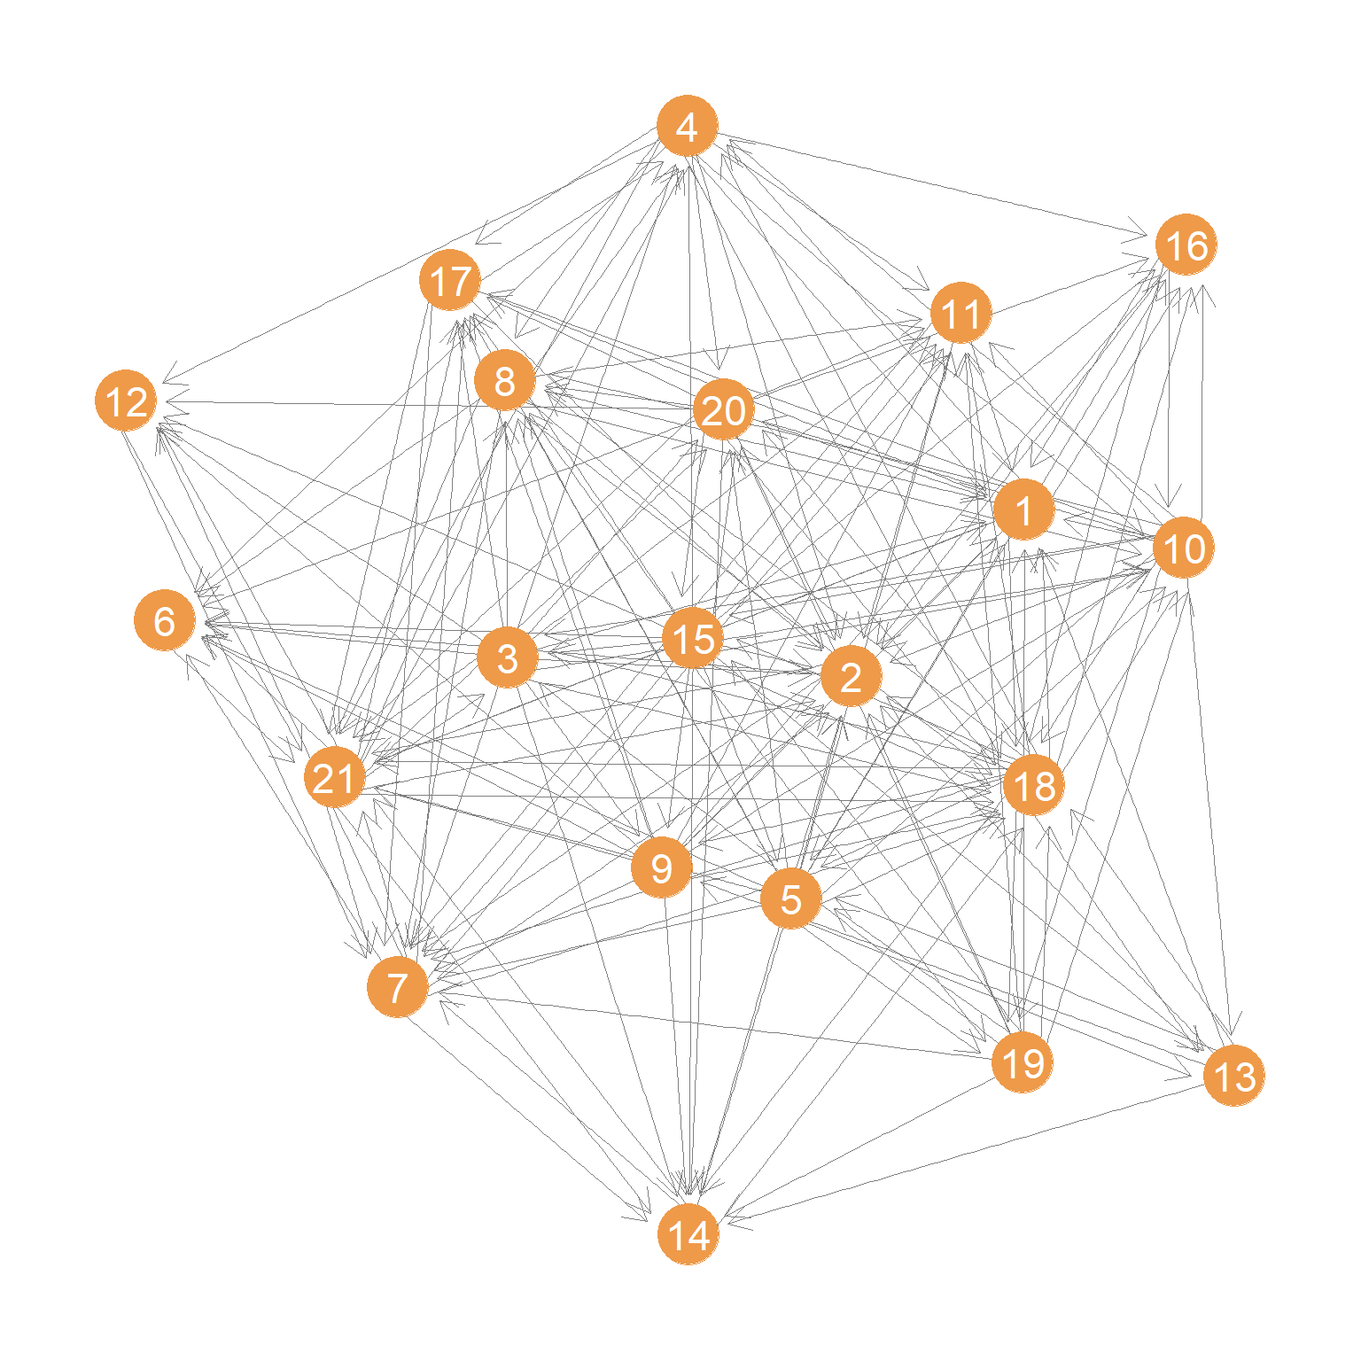
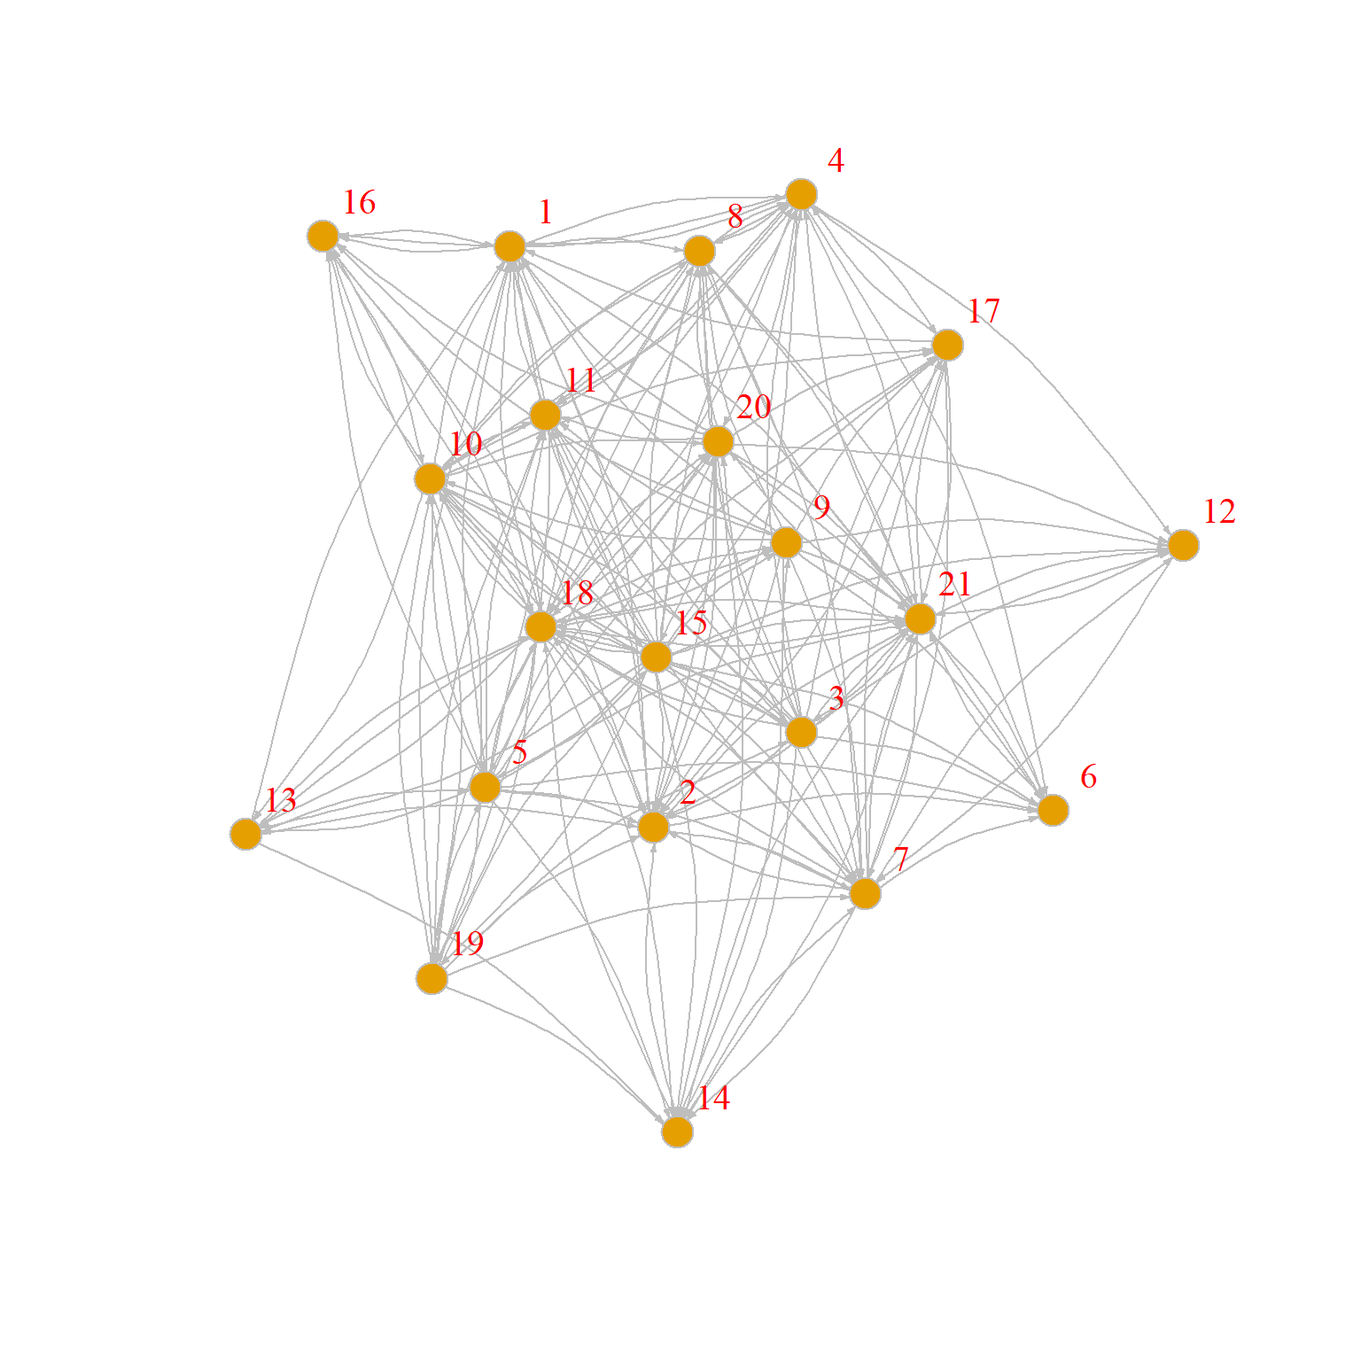
now we are talking

diff --git a/docs/prest-pagerank.html b/docs/prest-pagerank.html
@@ -1026,10 +1026,10 @@ window.Quarto = {
 <div class="code-copy-outer-scaffold"><div class="sourceCode cell-code" id="cb23"><pre class="sourceCode numberSource r number-lines code-with-copy"><code class="sourceCode r"><span id="cb23-1"><a href="#cb23-1"></a><span class="fu">markov.chain1</span>(P)</span></code></pre></div><button title="Copy to Clipboard" class="code-copy-button"><i class="bi"></i></button></div>
 </details>
 <div class="cell-output cell-output-stdout">
-<pre><code>  [1] 19 11 13 11  4  1 16  2  4 11  9  5  2 18  2  4 17  4 11  8 11  3 19  2  6
- [26] 21 12 17  9  6 12 10  9 17  7  6  9 11 13 11  3 15 19 12 17 11  5 13  5 13
- [51]  5 10  3 19 11 17 20 17 12 17  7 17 14  5 17 20 10 16 17  3 11 15  3 11 17
- [76]  6  7 17  1 16 10 16  2  6  9 15 17 16  4  8 11 15 17 16 17 20 17 16  4 12</code></pre>
+<pre><code>  [1] 15  3 11  2  5 17  7 17 16  1  8  1 11 12 17  8 10 12 11  5 10  8 10 16  4
+ [26] 17 16  2 16 17 10  9 11 15 17  1 12 11 20 19 11 18 21  5 17  3 15  1 16 10
+ [51] 16  2 18  2  6  2 19  5 17  4  1 17  4  1 16 17 20 19  3 19  1  4 17 12 10
+ [76] 16  2 19 15  1  8  4 12 10 16  1  4  8  4 16  2 21 12  1 17 11 17  8 10 17</code></pre>
 </div>
 </div>
 <p>We can of course create a longer one by changing the <code>q</code> argument while setting the seed node to 5:</p>
@@ -1039,26 +1039,26 @@ window.Quarto = {
 <div class="code-copy-outer-scaffold"><div class="sourceCode cell-code" id="cb25"><pre class="sourceCode numberSource r number-lines code-with-copy"><code class="sourceCode r"><span id="cb25-1"><a href="#cb25-1"></a><span class="fu">markov.chain1</span>(P, <span class="at">q =</span> <span class="dv">500</span>, <span class="at">seed =</span> <span class="dv">5</span>)</span></code></pre></div><button title="Copy to Clipboard" class="code-copy-button"><i class="bi"></i></button></div>
 </details>
 <div class="cell-output cell-output-stdout">
-<pre><code>  [1] 17  1 15 14  5 17 10 12  1  8  4 11 15  5 14  7 17 11  5 13 11 19  1 16  1
- [26] 15  3 10 20 18 20 17 20 10 20 19  1 15  1 11  2  6 17 20 18 21  5  2  4  2
- [51] 18 21  6  2 16 17  5 10 17  3 10 20 17  6  7 17  8 17  4 12  4 17 12 19 11
- [76] 13 11  2 11  8 10  3 11  3 19 17 19 17 10  5 14  3 17 20 19 11  2  5 11  2
-[101]  4  2 11  8 10  9  6  9 10 12  6 15  3 14 17 16  1 16  4 16  4 11  8 10  5
-[126] 13  5 17 11 20 17 20 18  2 16  1  8 10 12 11  3 10  9  6  9 17 19  3 15 14
-[151] 17 20 11 19 14  3 11  3 17  2 11 13 11  9 11 15  1  8  1  2 19  3 19  5  2
-[176] 18 21 17  8 11  3 14  5 19  5 10  8  4 11 18  2 17 12  6 21 18  2  1 17 15
-[201]  9  5 21 12 11  2  4  2  4 16 10 16 17  6  2  4 11  8 11  1 16 10  3 11 20
-[226] 10  9 17  6 12  6  7  6 17 14 19  3 10  3 10 20 11 13 11 19  1 17 10 16 17
-[251]  6 17 16 10  8  1 16 17  2 19 15 11  8 17 11  9 10  5 11  2 17  9 11  4  1
-[276] 16  4 17 19 12  4 11 15 19 20 18  2 21 18 21 18 11 15  5 13 11  8 17  6 21
-[301]  6 21  2 18 20 18  2  1 19 15 19  1 19 14  7 14  3 14 17 12 11  9 15 19 17
-[326]  1 15  1  8 10 12 19 15 14  3 14  5 19 12 19 17  5 17 19 20 17 16  1 15 14
-[351]  7 17  5 17  7  6 15  6  9  5  2  5  9 10  9 11  9 11  5 19 17  3 10  8  4
-[376]  2 16  4  8 10  9  6  7 14 19  1 19 12 17 20 10 17  7 14 19  2  1  4 11  3
-[401] 19  3 17  8 10  9  6 17  7  6 17 14 19 11  5 14 19  5 10 17 21  6  2 16  4
-[426] 17 12  6 15  5 11  9 10  9 17  4  1  8  4  2  6 17  3 14  7  6 17 10 12  1
-[451]  4  2 11  1 17 15 17  9  6  7 14  3 19 11 18 21  6  9 17  3 17  1  8  4 12
-[476] 11 18 21 17  1 15 19  5 19 14 15 14 15 14  3 14 17  7  6  2 18 11 19 11  8</code></pre>
+<pre><code>  [1] 14 17 10 17  2 21  5  2  5  2  4 12 11 19 15  3 10 17  6 15  1 16 17  6  2
+ [26] 17 15  5 13 11 19  3 15 11  3 14 15 14 15  1 16 17  1 19  2 16  2 16 17  8
+ [51]  4 16  2 16 10  9 15  1 17  1  2 16  2 18  2  4 16  4  2  6 21  5 17 21  2
+ [76] 21  6  2 18 21  5 21  5 15  1 16  1  8 11 20 19 17  4  8 11 17  9 11  5  2
+[101] 11 12 11 13  5  2 11  4 11 12  4  2 18 21  2  4 11  4 11  2  5 15 19 12  1
+[126] 17 19  5  2  1 15  5 17 16  1  8 10  3 14  5 19 11  8 17  8 17 11 18 21 18
+[151] 20 18  2 19  3 19  5 10 20 19  2  5 10 17  5  9 11  8  1 12  4 17 15  9 10
+[176] 17 15 19 15  9 15 14 19  2 17  2 19 12  1 12  1 17  7 17  8  4 16 10 20 19
+[201] 17 20 19 15 11  4 17 20 18 21  5 10 16  2 19  3 19 20 17 19 20 19  1 11 20
+[226] 10  9  6  2  1 11 13  5  2 21 12 21 17  4  1 15 14  3 11  4 11 20 17  7  6
+[251] 21 12 17 20 18 20 18 11  5  2 16 17  3 10  3 10 12  4 17 12  6  9 17  1 15
+[276] 17  1  4  1 15  5  2 11  9 10  3 17  2 16  2  6  7  6  2  1  8 17  1  2 11
+[301] 12 10  9 15  3 15 17  6  9  6  9 15  9 17 11  9  6 15  6 21  5 15 19 17 15
+[326] 19  1 15 14 17  2 21 18 20 19 20 19  3 17 21  5 14  3 17  2 18 20 19 15  6
+[351] 17  2  6 17 19  5 10 16  4 11  2 21 12 11 19 12 11  8  1  2 18  2 17 19 11
+[376] 13 11 15  5 21 17  6  7 14 19  3 19 20 18  2  6 21 17 14  3 10 12 21  5 14
+[401] 19 20 17  5 10 16  4 11 20 17 15  3 19 11  3 17  9 10  9 17  8  1 19 14  7
+[426] 14  3 15 19  3 15 17  6  2 11  5  9 10  3 19  2 18 21 18 20 10  9 10 12  6
+[451] 12  4 11  8 11  9  5 11 15 17  6  2  4 16  2 18 20 11 20 19 20 11 19  3 17
+[476]  8 17 14 19  2 18  2 19 17 19 17  1 16  2 16  1  8 17  3 19 12  1 16  4  1</code></pre>
 </div>
 </div>
 <p>Note that one thing that happens here is that the rumor goes through some nodes more often than others. Another thing that you may be thinking is that the odds that a node will keep repeating itself in this chain has to do with how many neighbors they have since that increases the chances that they will be chosen in the <code>sample</code> line of the function. If you think that, you will be right!</p>
@@ -1077,7 +1077,7 @@ window.Quarto = {
 <pre><code>   1    2    3    4    5    6    7    8    9   10   11   12   13   14   15   16 
 0.06 0.06 0.04 0.04 0.06 0.04 0.02 0.03 0.04 0.05 0.09 0.05 0.01 0.04 0.06 0.03 
   17   18   19   20   21 
-0.11 0.03 0.06 0.03 0.04 </code></pre>
+0.12 0.02 0.06 0.03 0.04 </code></pre>
 </div>
 </div>
 <p>Line 1 computes the states of the markov chain after 50000 iterations using our <code>markov.chain1</code> function. Then line 2 uses the native <code>R</code> function <code>table</code> as a handy trick to compute how many times each node shows up in the chain stored in the <code>count</code> object:</p>
@@ -1089,9 +1089,9 @@ window.Quarto = {
 <div class="cell-output cell-output-stdout">
 <pre><code>states
    1    2    3    4    5    6    7    8    9   10   11   12   13   14   15   16 
-2878 3159 1846 2244 3025 2199  992 1610 1901 2652 4448 2527  596 1864 2845 1635 
+2840 3137 1948 2233 3193 2166  946 1679 1899 2586 4383 2579  606 1945 2862 1583 
   17   18   19   20   21 
-5735 1257 3161 1655 1771 </code></pre>
+5765 1190 3070 1518 1872 </code></pre>
 </div>
 </div>
 <p>Finally, line 4 divides these numbers by the length of the chain to get the probability.</p>
@@ -1132,11 +1132,11 @@ window.Quarto = {
 </details>
 <div class="cell-output cell-output-stdout">
 <pre><code>      1       2       3       4       5       6       7       8       9      10 
-0.05756 0.06318 0.03692 0.04488 0.06050 0.04398 0.01984 0.03220 0.03802 0.05304 
+0.05680 0.06274 0.03896 0.04466 0.06386 0.04332 0.01892 0.03358 0.03798 0.05172 
      11      12      13      14      15      16      17      18      19      20 
-0.08896 0.05054 0.01192 0.03728 0.05690 0.03270 0.11470 0.02514 0.06322 0.03310 
+0.08766 0.05158 0.01212 0.03890 0.05724 0.03166 0.11530 0.02380 0.06140 0.03036 
      21 
-0.03542 </code></pre>
+0.03744 </code></pre>
 </div>
 </div>
 <p>There is another way to compute these probabilities more directly from the <span class="math inline">\(\mathbf{P}\)</span> matrix. The basic idea is that at any time <span class="math inline">\(t\)</span>, the distribution of probabilities across nodes in the network stored in the vector <span class="math inline">\(\mathbf{x}\)</span> is given by:</p>
@@ -2043,63 +2043,57 @@ Brin, Sergey, and Lawrence Page. 1998. <span>“The Anatomy of a Large-Scale Hyp
 <span id="cb48-341"><a href="#cb48-341"></a><span class="co">#| fig-width: 8</span></span>
 <span id="cb48-342"><a href="#cb48-342"></a><span class="co">#| fig-height: 8</span></span>
 <span id="cb48-343"><a href="#cb48-343"></a><span class="co">#| echo: false</span></span>
-<span id="cb48-344"><a href="#cb48-344"></a><span class="fu">library</span>(ggraph)</span>
-<span id="cb48-345"><a href="#cb48-345"></a><span class="fu">set.seed</span>(<span class="dv">456</span>)</span>
-<span id="cb48-346"><a href="#cb48-346"></a>p <span class="ot">&lt;-</span> <span class="fu">ggraph</span>(ht_advice, <span class="at">layout =</span> <span class="st">"auto"</span>)</span>
-<span id="cb48-347"><a href="#cb48-347"></a>p <span class="ot">&lt;-</span> p <span class="sc">+</span> <span class="fu">geom_edge_parallel</span>(</span>
-<span id="cb48-348"><a href="#cb48-348"></a>  <span class="at">color =</span> <span class="fu">gray</span>(<span class="fl">0.5</span>), <span class="at">edge_width =</span> <span class="fl">0.25</span>,</span>
-<span id="cb48-349"><a href="#cb48-349"></a>  <span class="at">arrow =</span> <span class="fu">arrow</span>(<span class="at">length =</span> <span class="fu">unit</span>(<span class="dv">4</span>, <span class="st">"mm"</span>)),</span>
-<span id="cb48-350"><a href="#cb48-350"></a>  <span class="at">end_cap =</span> <span class="fu">circle</span>(<span class="dv">6</span>, <span class="st">"mm"</span>),</span>
-<span id="cb48-351"><a href="#cb48-351"></a>  <span class="at">sep =</span> <span class="fu">unit</span>(<span class="dv">5</span>, <span class="st">"mm"</span>)</span>
-<span id="cb48-352"><a href="#cb48-352"></a>)</span>
-<span id="cb48-353"><a href="#cb48-353"></a>p <span class="ot">&lt;-</span> p <span class="sc">+</span> <span class="fu">geom_node_point</span>(<span class="fu">aes</span>(<span class="at">x =</span> x, <span class="at">y =</span> y), <span class="at">size =</span> <span class="dv">12</span>, <span class="at">color =</span> <span class="st">"tan2"</span>)</span>
-<span id="cb48-354"><a href="#cb48-354"></a>p <span class="ot">&lt;-</span> p <span class="sc">+</span> <span class="fu">geom_node_text</span>(<span class="fu">aes</span>(<span class="at">label =</span> <span class="dv">1</span><span class="sc">:</span><span class="fu">vcount</span>(g)), <span class="at">size =</span> <span class="dv">6</span>, <span class="at">color =</span> <span class="st">"white"</span>)</span>
-<span id="cb48-355"><a href="#cb48-355"></a>p <span class="ot">&lt;-</span> p <span class="sc">+</span> <span class="fu">theme_graph</span>()</span>
-<span id="cb48-356"><a href="#cb48-356"></a>p</span>
-<span id="cb48-357"><a href="#cb48-357"></a><span class="in">```</span></span>
-<span id="cb48-358"><a href="#cb48-358"></a></span>
-<span id="cb48-359"><a href="#cb48-359"></a>We then compute the $\mathbf{P}$ matrix corresponding to this network:</span>
-<span id="cb48-360"><a href="#cb48-360"></a></span>
-<span id="cb48-363"><a href="#cb48-363"></a><span class="in">```{r}</span></span>
-<span id="cb48-364"><a href="#cb48-364"></a>D.o <span class="ot">&lt;-</span> <span class="fu">diag</span>(<span class="dv">1</span> <span class="sc">/</span> <span class="fu">rowSums</span>(A))</span>
-<span id="cb48-365"><a href="#cb48-365"></a>P <span class="ot">&lt;-</span> D.o <span class="sc">%*%</span> A</span>
-<span id="cb48-366"><a href="#cb48-366"></a><span class="in">```</span></span>
+<span id="cb48-344"><a href="#cb48-344"></a><span class="fu">set.seed</span>(<span class="dv">123</span>)</span>
+<span id="cb48-345"><a href="#cb48-345"></a><span class="fu">plot</span>(ht_advice,</span>
+<span id="cb48-346"><a href="#cb48-346"></a>  <span class="at">vertex.size =</span> <span class="dv">7</span>, <span class="at">vertex.frame.color =</span> <span class="st">"gray"</span>, <span class="at">edge.color =</span> <span class="st">"gray"</span>,</span>
+<span id="cb48-347"><a href="#cb48-347"></a>  <span class="at">vertex.label.cex =</span> <span class="fl">1.25</span>, <span class="at">edge.arrow.size =</span> <span class="fl">0.25</span>,</span>
+<span id="cb48-348"><a href="#cb48-348"></a>  <span class="at">vertex.label.color =</span> <span class="st">"red"</span>,</span>
+<span id="cb48-349"><a href="#cb48-349"></a>  <span class="at">vertex.label.dist =</span> <span class="fl">1.5</span>, <span class="at">edge.curved =</span> <span class="fl">0.2</span></span>
+<span id="cb48-350"><a href="#cb48-350"></a>)</span>
+<span id="cb48-351"><a href="#cb48-351"></a><span class="in">```</span></span>
+<span id="cb48-352"><a href="#cb48-352"></a></span>
+<span id="cb48-353"><a href="#cb48-353"></a>We then compute the $\mathbf{P}$ matrix corresponding to this network:</span>
+<span id="cb48-354"><a href="#cb48-354"></a></span>
+<span id="cb48-357"><a href="#cb48-357"></a><span class="in">```{r}</span></span>
+<span id="cb48-358"><a href="#cb48-358"></a>D.o <span class="ot">&lt;-</span> <span class="fu">diag</span>(<span class="dv">1</span> <span class="sc">/</span> <span class="fu">rowSums</span>(A))</span>
+<span id="cb48-359"><a href="#cb48-359"></a>P <span class="ot">&lt;-</span> D.o <span class="sc">%*%</span> A</span>
+<span id="cb48-360"><a href="#cb48-360"></a><span class="in">```</span></span>
+<span id="cb48-361"><a href="#cb48-361"></a></span>
+<span id="cb48-362"><a href="#cb48-362"></a>One issue that arises in computing the $\mathbf{P}$ for directed graphs is that there could be nodes with no out-neighbors (so-called sink nodes) or like node 6 in , who has just one out-neighbor (e.g., seeks advice from just one person), in which case the probability is 1.0 that if the random walker is at node 6 it will go to node 21. </span>
+<span id="cb48-363"><a href="#cb48-363"></a></span>
+<span id="cb48-364"><a href="#cb48-364"></a>To avoid this issue the original designers of the PageRank algorithm <span class="co">[</span><span class="ot">@brin_page98</span><span class="co">]</span> added a "fudge" factor: That is, with probability $\alpha$ the random walker should hop from node to node following the directed links in the graph. But once in a while with probability $1-\alpha$ the walker should decide to "teleport" (with uniform probability) to *any* node in the graph whether it is an out-neighbor of the current node or not.</span>
+<span id="cb48-365"><a href="#cb48-365"></a></span>
+<span id="cb48-366"><a href="#cb48-366"></a>How do we do that? Well we need to "fix" the $\mathbf{P}$ matrix to allow for such behavior. So instead of $\mathbf{P}$ we estimate our distributive status model on the matrix $\mathbf{G}$ (yes, for **G**oogle):</span>
 <span id="cb48-367"><a href="#cb48-367"></a></span>
-<span id="cb48-368"><a href="#cb48-368"></a>One issue that arises in computing the $\mathbf{P}$ for directed graphs is that there could be nodes with no out-neighbors (so-called sink nodes) or like node 6 in , who has just one out-neighbor (e.g., seeks advice from just one person), in which case the probability is 1.0 that if the random walker is at node 6 it will go to node 21. </span>
-<span id="cb48-369"><a href="#cb48-369"></a></span>
-<span id="cb48-370"><a href="#cb48-370"></a>To avoid this issue the original designers of the PageRank algorithm <span class="co">[</span><span class="ot">@brin_page98</span><span class="co">]</span> added a "fudge" factor: That is, with probability $\alpha$ the random walker should hop from node to node following the directed links in the graph. But once in a while with probability $1-\alpha$ the walker should decide to "teleport" (with uniform probability) to *any* node in the graph whether it is an out-neighbor of the current node or not.</span>
+<span id="cb48-368"><a href="#cb48-368"></a>$$</span>
+<span id="cb48-369"><a href="#cb48-369"></a> \mathbf{G} = \alpha \mathbf{P} + (1 - \alpha) \mathbf{E}</span>
+<span id="cb48-370"><a href="#cb48-370"></a>$$</span>
 <span id="cb48-371"><a href="#cb48-371"></a></span>
-<span id="cb48-372"><a href="#cb48-372"></a>How do we do that? Well we need to "fix" the $\mathbf{P}$ matrix to allow for such behavior. So instead of $\mathbf{P}$ we estimate our distributive status model on the matrix $\mathbf{G}$ (yes, for **G**oogle):</span>
+<span id="cb48-372"><a href="#cb48-372"></a>Where $\mathbf{E}$ is a matrix of the same dimensions as $\mathbf{P}$ but containing $1/n$ in every cell indicating that every node has an equal chance of being "teleported" to.</span>
 <span id="cb48-373"><a href="#cb48-373"></a></span>
-<span id="cb48-374"><a href="#cb48-374"></a>$$</span>
-<span id="cb48-375"><a href="#cb48-375"></a> \mathbf{G} = \alpha \mathbf{P} + (1 - \alpha) \mathbf{E}</span>
-<span id="cb48-376"><a href="#cb48-376"></a>$$</span>
-<span id="cb48-377"><a href="#cb48-377"></a></span>
-<span id="cb48-378"><a href="#cb48-378"></a>Where $\mathbf{E}$ is a matrix of the same dimensions as $\mathbf{P}$ but containing $1/n$ in every cell indicating that every node has an equal chance of being "teleported" to.</span>
-<span id="cb48-379"><a href="#cb48-379"></a></span>
-<span id="cb48-380"><a href="#cb48-380"></a>So, fixing $\alpha = 0.85$ (the standard value chosen by @brin_page98 in their original paper) our $\mathbf{G}$ matrix would be:</span>
-<span id="cb48-381"><a href="#cb48-381"></a></span>
-<span id="cb48-384"><a href="#cb48-384"></a><span class="in">```{r}</span></span>
-<span id="cb48-385"><a href="#cb48-385"></a>n <span class="ot">&lt;-</span> <span class="fu">vcount</span>(g)</span>
-<span id="cb48-386"><a href="#cb48-386"></a>E <span class="ot">&lt;-</span> <span class="fu">matrix</span>(<span class="dv">1</span> <span class="sc">/</span> n, n, n)</span>
-<span id="cb48-387"><a href="#cb48-387"></a>G <span class="ot">&lt;-</span> (<span class="fl">0.85</span> <span class="sc">*</span> P) <span class="sc">+</span> (<span class="fl">0.15</span> <span class="sc">*</span> E)</span>
-<span id="cb48-388"><a href="#cb48-388"></a><span class="in">```</span></span>
-<span id="cb48-389"><a href="#cb48-389"></a></span>
-<span id="cb48-390"><a href="#cb48-390"></a>And then we just play our status distribution game on the transpose of $\mathbf{G}$:</span>
-<span id="cb48-391"><a href="#cb48-391"></a></span>
-<span id="cb48-394"><a href="#cb48-394"></a><span class="in">```{r}</span></span>
-<span id="cb48-395"><a href="#cb48-395"></a>s3 <span class="ot">&lt;-</span> <span class="fu">round</span>(<span class="fu">status1</span>(<span class="fu">t</span>(G)), <span class="dv">3</span>)</span>
-<span id="cb48-396"><a href="#cb48-396"></a><span class="fu">round</span>(s3 <span class="sc">/</span> <span class="fu">max</span>(s3), <span class="dv">3</span>)</span>
-<span id="cb48-397"><a href="#cb48-397"></a><span class="in">```</span></span>
-<span id="cb48-398"><a href="#cb48-398"></a></span>
-<span id="cb48-399"><a href="#cb48-399"></a>Which is the same answer you would get from the <span class="in">`igraph`</span> function <span class="in">`page_rank`</span> by setting the "damping" parameter to 0.85:</span>
-<span id="cb48-400"><a href="#cb48-400"></a></span>
-<span id="cb48-403"><a href="#cb48-403"></a><span class="in">```{r}</span></span>
-<span id="cb48-404"><a href="#cb48-404"></a>pr <span class="ot">&lt;-</span> <span class="fu">page_rank</span>(g, <span class="at">damping =</span> <span class="fl">0.85</span>, <span class="at">algo =</span> <span class="st">"arpack"</span>)<span class="sc">$</span>vector</span>
-<span id="cb48-405"><a href="#cb48-405"></a><span class="fu">round</span>(pr <span class="sc">/</span> <span class="fu">max</span>(pr), <span class="dv">3</span>)</span>
-<span id="cb48-406"><a href="#cb48-406"></a><span class="in">```</span></span>
-<span id="cb48-407"><a href="#cb48-407"></a></span>
-<span id="cb48-408"><a href="#cb48-408"></a>We can see therefore that the damping parameter simply controls the extent to which the PageRank ranking is driven by the directed connectivity of the $\mathbf{P}$ matrix, versus a stochastic or random component. </span>
+<span id="cb48-374"><a href="#cb48-374"></a>So, fixing $\alpha = 0.85$ (the standard value chosen by @brin_page98 in their original paper) our $\mathbf{G}$ matrix would be:</span>
+<span id="cb48-375"><a href="#cb48-375"></a></span>
+<span id="cb48-378"><a href="#cb48-378"></a><span class="in">```{r}</span></span>
+<span id="cb48-379"><a href="#cb48-379"></a>n <span class="ot">&lt;-</span> <span class="fu">vcount</span>(g)</span>
+<span id="cb48-380"><a href="#cb48-380"></a>E <span class="ot">&lt;-</span> <span class="fu">matrix</span>(<span class="dv">1</span> <span class="sc">/</span> n, n, n)</span>
+<span id="cb48-381"><a href="#cb48-381"></a>G <span class="ot">&lt;-</span> (<span class="fl">0.85</span> <span class="sc">*</span> P) <span class="sc">+</span> (<span class="fl">0.15</span> <span class="sc">*</span> E)</span>
+<span id="cb48-382"><a href="#cb48-382"></a><span class="in">```</span></span>
+<span id="cb48-383"><a href="#cb48-383"></a></span>
+<span id="cb48-384"><a href="#cb48-384"></a>And then we just play our status distribution game on the transpose of $\mathbf{G}$:</span>
+<span id="cb48-385"><a href="#cb48-385"></a></span>
+<span id="cb48-388"><a href="#cb48-388"></a><span class="in">```{r}</span></span>
+<span id="cb48-389"><a href="#cb48-389"></a>s3 <span class="ot">&lt;-</span> <span class="fu">round</span>(<span class="fu">status1</span>(<span class="fu">t</span>(G)), <span class="dv">3</span>)</span>
+<span id="cb48-390"><a href="#cb48-390"></a><span class="fu">round</span>(s3 <span class="sc">/</span> <span class="fu">max</span>(s3), <span class="dv">3</span>)</span>
+<span id="cb48-391"><a href="#cb48-391"></a><span class="in">```</span></span>
+<span id="cb48-392"><a href="#cb48-392"></a></span>
+<span id="cb48-393"><a href="#cb48-393"></a>Which is the same answer you would get from the <span class="in">`igraph`</span> function <span class="in">`page_rank`</span> by setting the "damping" parameter to 0.85:</span>
+<span id="cb48-394"><a href="#cb48-394"></a></span>
+<span id="cb48-397"><a href="#cb48-397"></a><span class="in">```{r}</span></span>
+<span id="cb48-398"><a href="#cb48-398"></a>pr <span class="ot">&lt;-</span> <span class="fu">page_rank</span>(g, <span class="at">damping =</span> <span class="fl">0.85</span>, <span class="at">algo =</span> <span class="st">"arpack"</span>)<span class="sc">$</span>vector</span>
+<span id="cb48-399"><a href="#cb48-399"></a><span class="fu">round</span>(pr <span class="sc">/</span> <span class="fu">max</span>(pr), <span class="dv">3</span>)</span>
+<span id="cb48-400"><a href="#cb48-400"></a><span class="in">```</span></span>
+<span id="cb48-401"><a href="#cb48-401"></a></span>
+<span id="cb48-402"><a href="#cb48-402"></a>We can see therefore that the damping parameter simply controls the extent to which the PageRank ranking is driven by the directed connectivity of the $\mathbf{P}$ matrix, versus a stochastic or random component. </span>
 </code></pre></div><button title="Copy to Clipboard" class="code-copy-button" data-in-quarto-modal=""><i class="bi"></i></button></div>
 </div></div></div></div></div>
 </div> <!-- /content -->
